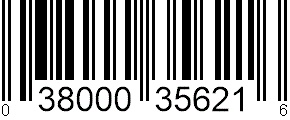
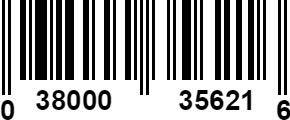
update example image, update readme

Changed region(s): [[0.0, 0.65, 1.0, 1.0]]

diff --git a/README.md b/README.md
@@ -28,6 +28,7 @@ If you decide to create an instance with parameters, the parameters are as follo
 ### Example ###
 ```csharp
 BarcodeLib.Barcode b = new BarcodeLib.Barcode();
+b.IncludeLabel = true;
 Image img = b.Encode(BarcodeLib.TYPE.UPCA, "038000356216", Color.Black, Color.White, 290, 120);
 ```
 
@@ -38,4 +39,4 @@ If you find this or any of my software useful and decide its worth supporting.  
 
 ### Copyright and license ###
 
-Copyright 2007-2022 Brad Barnhill. Code released under the [Apache License, Version 2.0](https://github.com/bbarnhill/barcodelib/blob/master/LICENSE).
+Copyright 2007-2023 Brad Barnhill. Code released under the [Apache License, Version 2.0](https://github.com/bbarnhill/barcodelib/blob/master/LICENSE).
